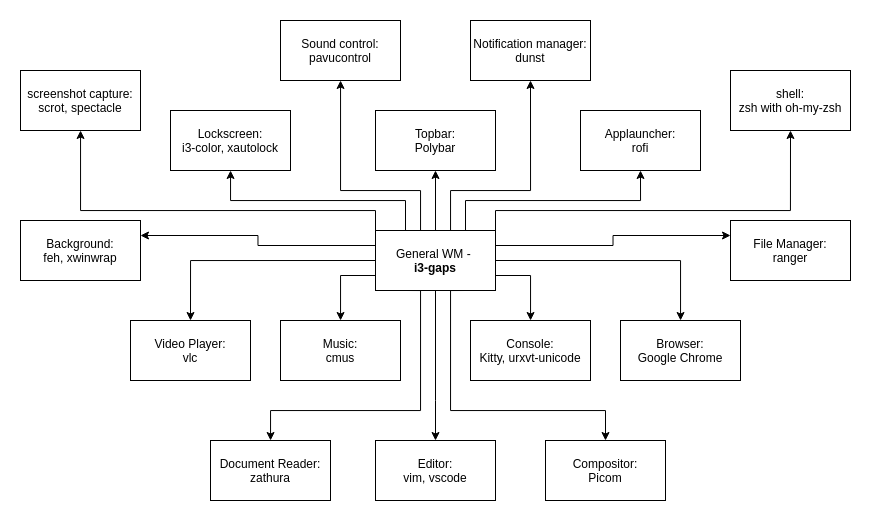
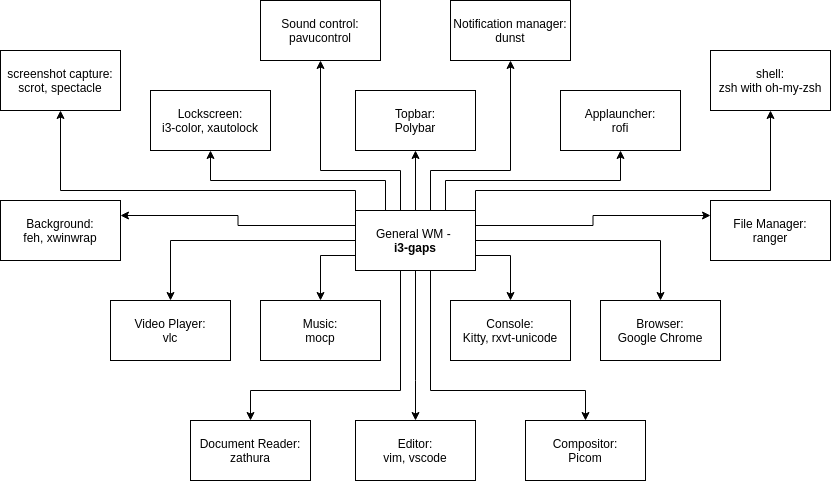
Xresources, Hotkeys, Great i3 diagrams modification, picom modification

diff --git a/Readme.md b/Readme.md
@@ -24,14 +24,22 @@ GreatI3 - проект, который я сделал просто потому
 
 Для того, чтобы установить GreatI3 на Arch Linux, вам нужно выполнить следующий скрипт:
 ```bash
-sudo pacman -Sy --noconfirm i3 i3-gaps base-devel rofi okular feh vim code picom kitty ranger git xdotool xautolock i3lock-color scrot imagemagick
+# Installing Packages
+sudo pacman -Sy --noconfirm i3 i3-gaps base-devel rofi okular feh vim code picom kitty ranger git xdotool xautolock i3lock-color scrot imagemagick rxvt-unicode urxvt-perls
+# Cloning repository
 git clone https://github.com/us3rn4me-profile/GreatI3.git
+# Changing directory
 cd GreatI3
+# Copying main configs for urxvt and zsh
 cp zshrc $HOME/.zshrc
+cp Xresources $HOME/.Xresources
+# Copying fonts
 mkdir -p $HOME/.local/share/fonts/ && \
 cp fonts/* $HOME/.local/share/fonts/ && \
 fc-cache -vf
+# Copying config for touchpad
 cp ./config/* $HOME/.config/ -r && sudo cp ./40-libinput.conf /usr/share/X11/xorg.conf.d/40-libinput.conf
+# Copying scripts
 cp ./scripts/* $HOME/.config/i3/ -r
 
 # Build Polybar
